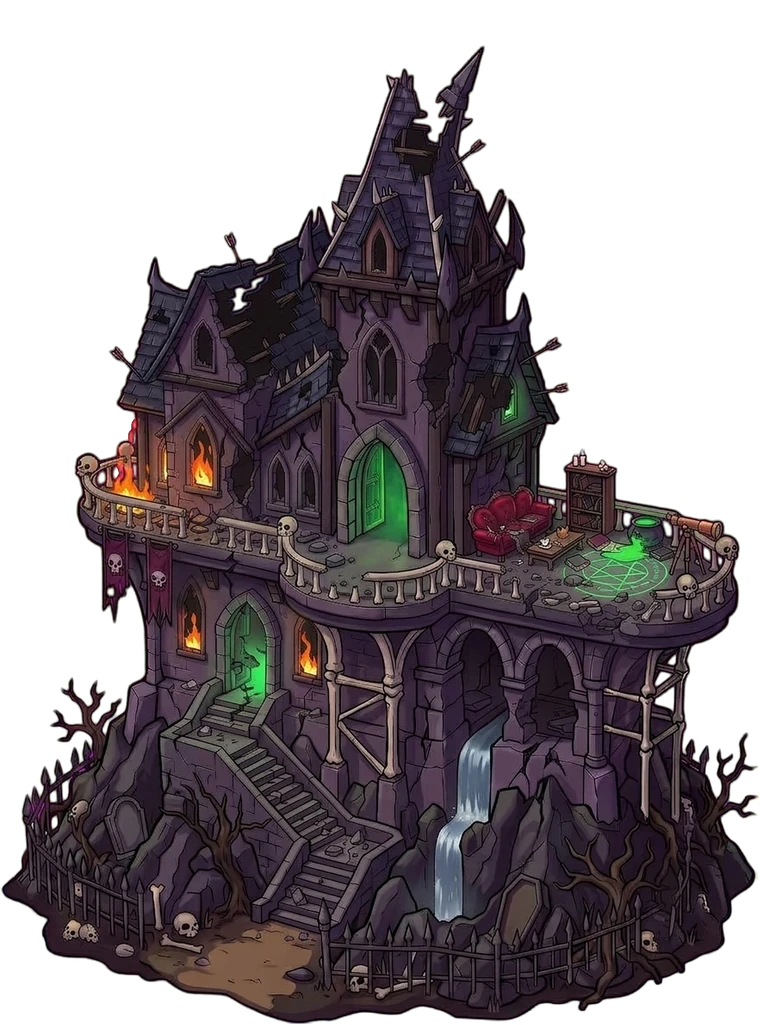
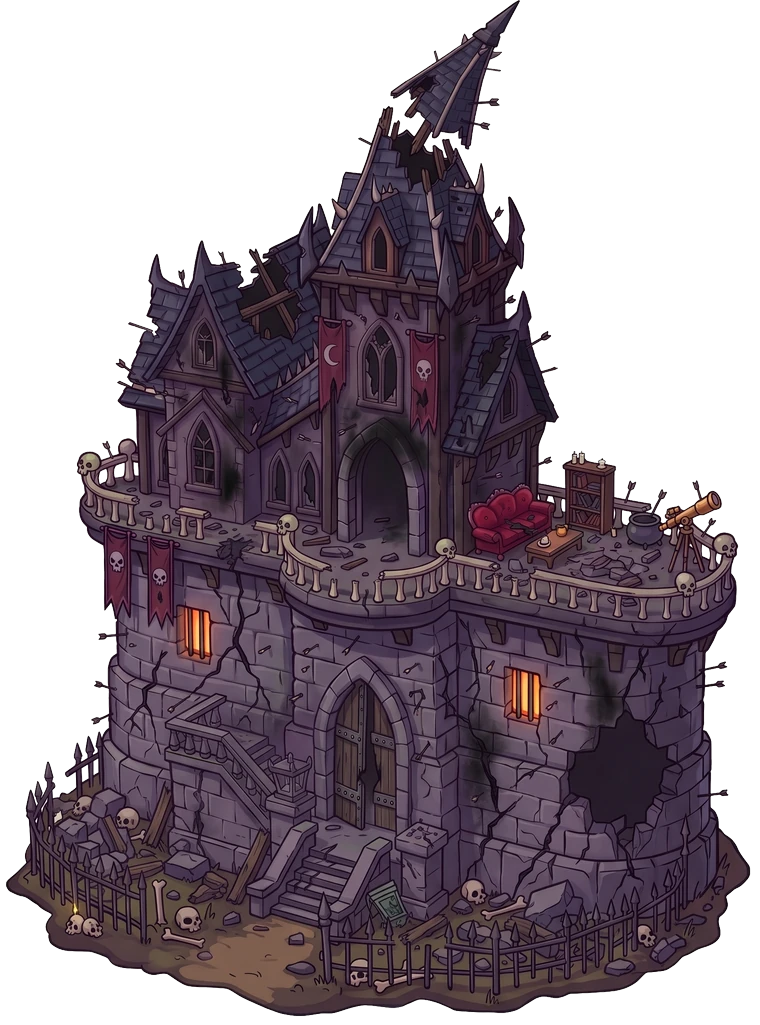
Kale v5 hasar evresi 3 (Gemini; kırık kule ucu tuvale sıkıştırıldı), sönük pencereler (yayın 770)

diff --git a/sinir-kalesi/js/game.js b/sinir-kalesi/js/game.js
@@ -15527,7 +15527,7 @@ function winCol(i) {
   return A.map((v, j) => Math.round(lerp(v, B[j], k))).join(',');
 }
 // heybetli kalenin ışıkları: iki mangalda kızıl ruh ateşi (11 Eki: görsel de mor/kızıl, varliklar/kale_renk.py), pencereler ve gül pencere nabız gibi, kafatası kapının gözleri yanar
-const KEEP_V5 = new Set([2]); // 18 Eki: v5 tabanıyla Gemini'de yeniden çizilmiş hasar evreleri (varliklar/kale_v5_hasar_isle.py); 3 gelince eklenir
+const KEEP_V5 = new Set([2, 3]); // 18 Eki: v5 tabanıyla Gemini'de yeniden çizilmiş hasar evreleri (varliklar/kale_v5_hasar_isle.py)
 const KEEP_FX = { // 17 Eki: kale v4 (turuncu pencereler, yeşil kapılar, ritüel çemberi; 4. öğe ışığın rengi). Mangal yok (fire boş).
   fire: [], green: true, eyes: [],
   win: [[0.497, 0.244, 0.6, '255,150,60'], [0.625, 0.24, 0.5, '255,150,60'], [0.5, 0.356, 1.6, '255,150,60'], [0.267, 0.337, 0.8, '255,150,60'],
@@ -15540,7 +15540,7 @@ const KEEP_FX = { // 17 Eki: kale v4 (turuncu pencereler, yeşil kapılar, ritü
   dmg: {
     // 17 Eki: 2-3. evrede Veo yok (Veo hasarlı kaleyi reddetti ya da onarıp çizdi): pencerelerdeki çizili yangınların üstünde kodla canlı alev
     2: { smoke: [[0.37, 0.27, 0.6], [0.565, 0.12, 0.6]], burn: [[0.264, 0.43, 0.3]] }, // 18 Eki: v5 hasar 2 (çatı delikleri, isli sol pencere)
-    3: { smoke: [[0.3, 0.3, 1], [0.5, 0.13, 0.9], [0.62, 0.36, 0.9], [0.17, 0.46, 0.8]], burn: [[0.17, 0.475, 0.6], [0.27, 0.46, 0.45], [0.25, 0.615, 0.32], [0.405, 0.645, 0.32]], off: [0, 1, 2, 3] },
+    3: { smoke: [[0.37, 0.27, 0.9], [0.54, 0.15, 0.9], [0.66, 0.36, 0.8], [0.76, 0.66, 0.7]], burn: [[0.37, 0.29, 0.4], [0.655, 0.37, 0.35]], off: [0, 1, 2, 3, 4, 5, 6, 7, 8, 12, 13, 16, 17] }, // 18 Eki: v5 hasar 3 (kule kırık, üst pencereler ve fenerler sönük, temelde delik)
   },
 };
 // süzülen duman: üst üste binen yumuşak gri lekeler aşağıdan yukarı yükselir, rüzgârla sağa kıvrılır, büyüyüp söner (görselde değil, her karede)

diff --git a/sinir-kalesi/index.html b/sinir-kalesi/index.html
@@ -17,7 +17,7 @@
 <canvas id="game" aria-label="Sınır Kalesi oyun alanı"></canvas>
 <script>
   // Sürüm damgası: her yayında artırılır; tarayıcı eski önbellek kopyasını kullanmaz (js ve görseller).
-  window.SURUM = '769';
+  window.SURUM = '770';
   // dil: kayıtlı seçim (yoksa Türkçe); tr/en dışındakiler için çeviri sözlüğü dil.js'ten önce yüklenir
   window.__dilYukle = (function () {
     var l = null; try { l = localStorage.getItem('sinirKalesi.lang'); } catch (e) {}

diff --git a/sinir-kalesi/yayin.html b/sinir-kalesi/yayin.html
@@ -11,7 +11,7 @@
 <canvas id="game" aria-label="Sınır Kalesi oyun alanı"></canvas>
 <script>
   // Sürüm damgası: her yayında artırılır; tarayıcı eski önbellek kopyasını kullanmaz (js ve görseller).
-  window.SURUM = '769';
+  window.SURUM = '770';
   // dil: kayıtlı seçim (yoksa Türkçe); tr/en dışındakiler için çeviri sözlüğü dil.js'ten önce yüklenir
   window.__dilYukle = (function () {
     var l = null; try { l = localStorage.getItem('sinirKalesi.lang'); } catch (e) {}

diff --git a/varliklar/kale_v5_hasar_isle.py b/varliklar/kale_v5_hasar_isle.py
@@ -29,6 +29,12 @@ print('hizalama fark %.4f ölçek %.4f konum %d %d' % best)
 _, s, dx, dy = best
 im = Image.fromarray(new); im = im.resize((round(im.width * s), round(im.height * s)), Image.LANCZOS)
 c = Image.new('RGBA', (ref.shape[1], ref.shape[0])); c.alpha_composite(im, (dx, dy)) if dx >= 0 and dy >= 0 else c.paste(im, (dx, dy), im)
+# tuvalin üstünden taşan kısım (3. evrede kırılıp yana yatan kule ucu): taşan şerit + üstteki 3 katı yükseklik, tuvalin üst bandına sıkıştırılır
+top = -dy if dy < 0 else 0; ov = top - int(np.argmax(np.asarray(im)[..., 3].max(1) > 20)) if top else 0
+if ov > 0:
+    band = im.crop((0, top - ov, im.width, top + 3 * ov)).resize((im.width, 3 * ov), Image.LANCZOS)
+    c.paste(Image.new('RGBA', (c.width, 3 * ov)), (0, 0)); c.alpha_composite(band, (dx, 0)) if dx >= 0 else c.paste(band, (dx, 0), band)
+    print('üstten taşan', ov, 'px sıkıştırıldı')
 os.makedirs(OUT, exist_ok=True); c.save(os.path.join(OUT, f'castle_keep_{N}.webp'), 'WEBP', quality=90, method=6)
 k = Image.new('RGBA', (ref.shape[1] * 2, ref.shape[0]), (90, 110, 70, 255)); k.alpha_composite(Image.fromarray(ref), (0, 0)); k.alpha_composite(c, (ref.shape[1], 0))
 o = Image.fromarray(ref).copy(); o.putalpha(Image.fromarray((ref[..., 3] * 0.5).astype(np.uint8))); k2 = c.copy(); k2.alpha_composite(o)
